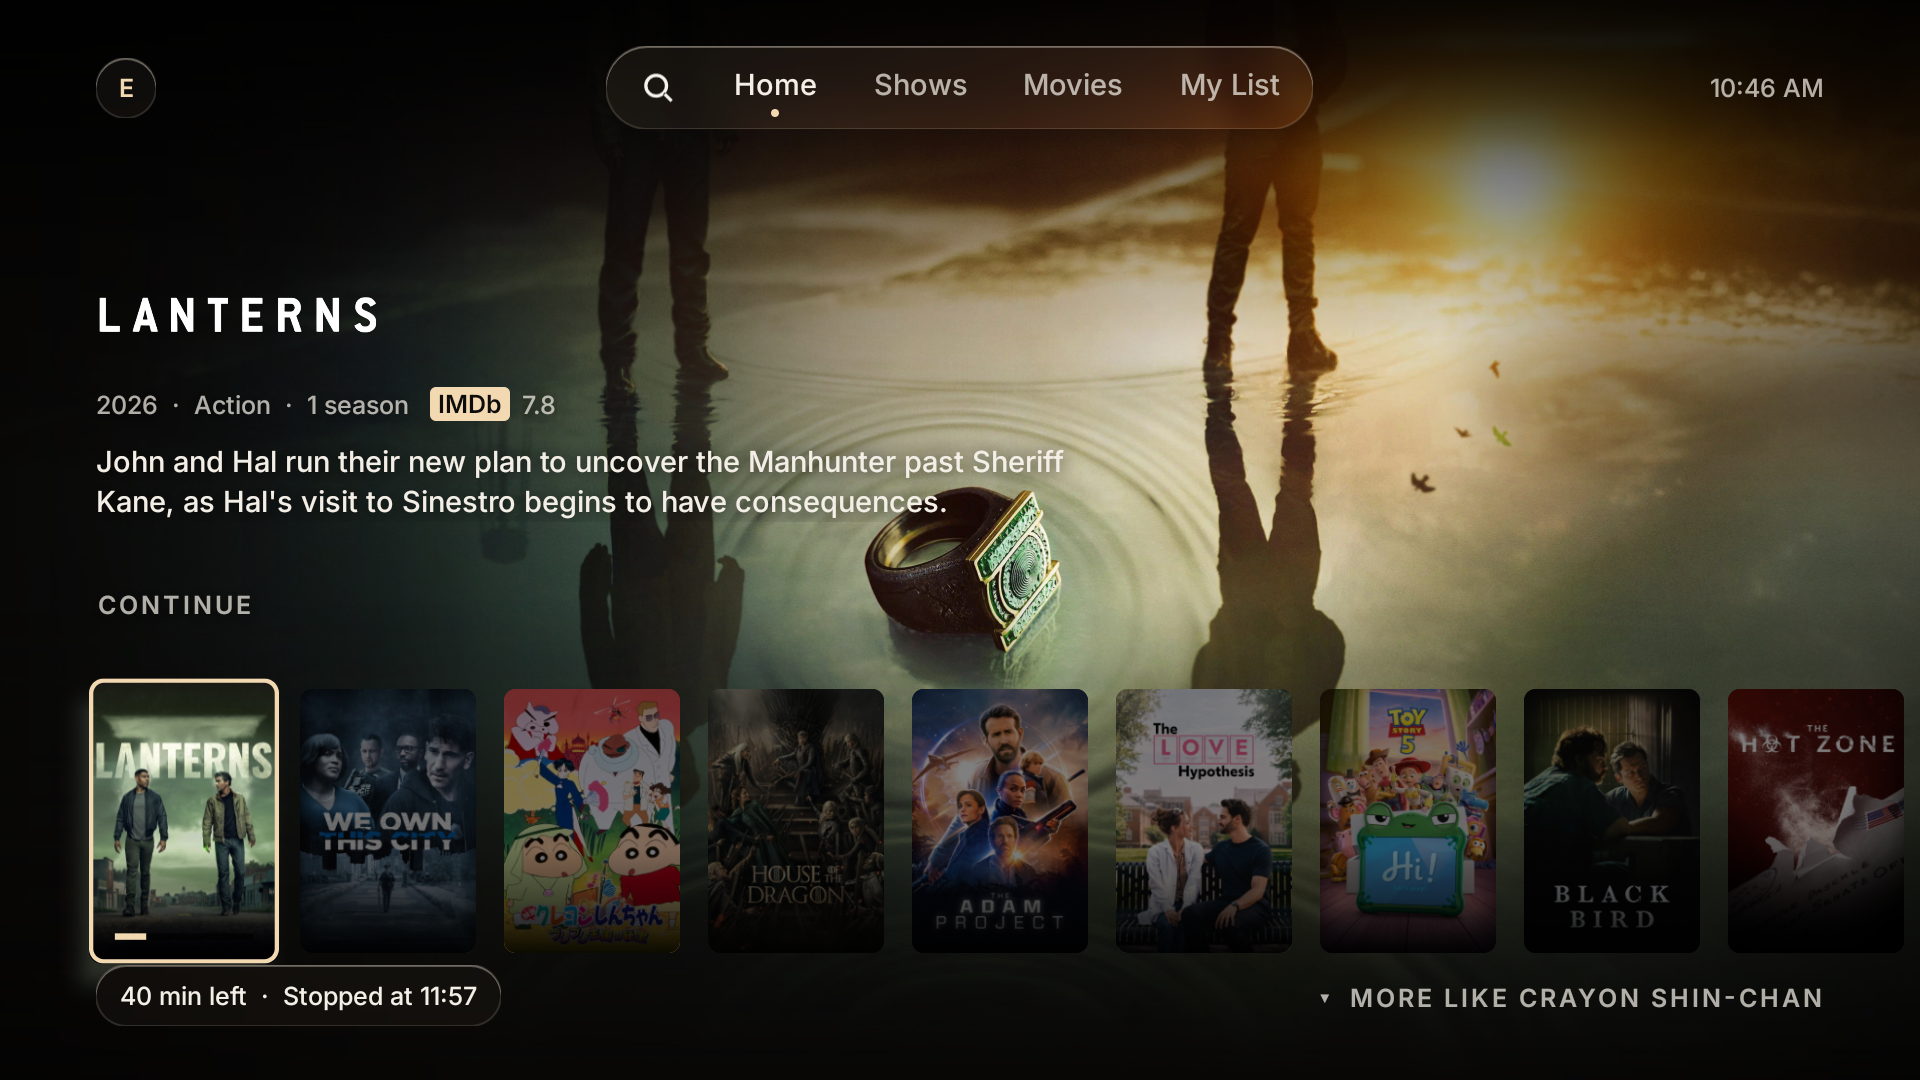
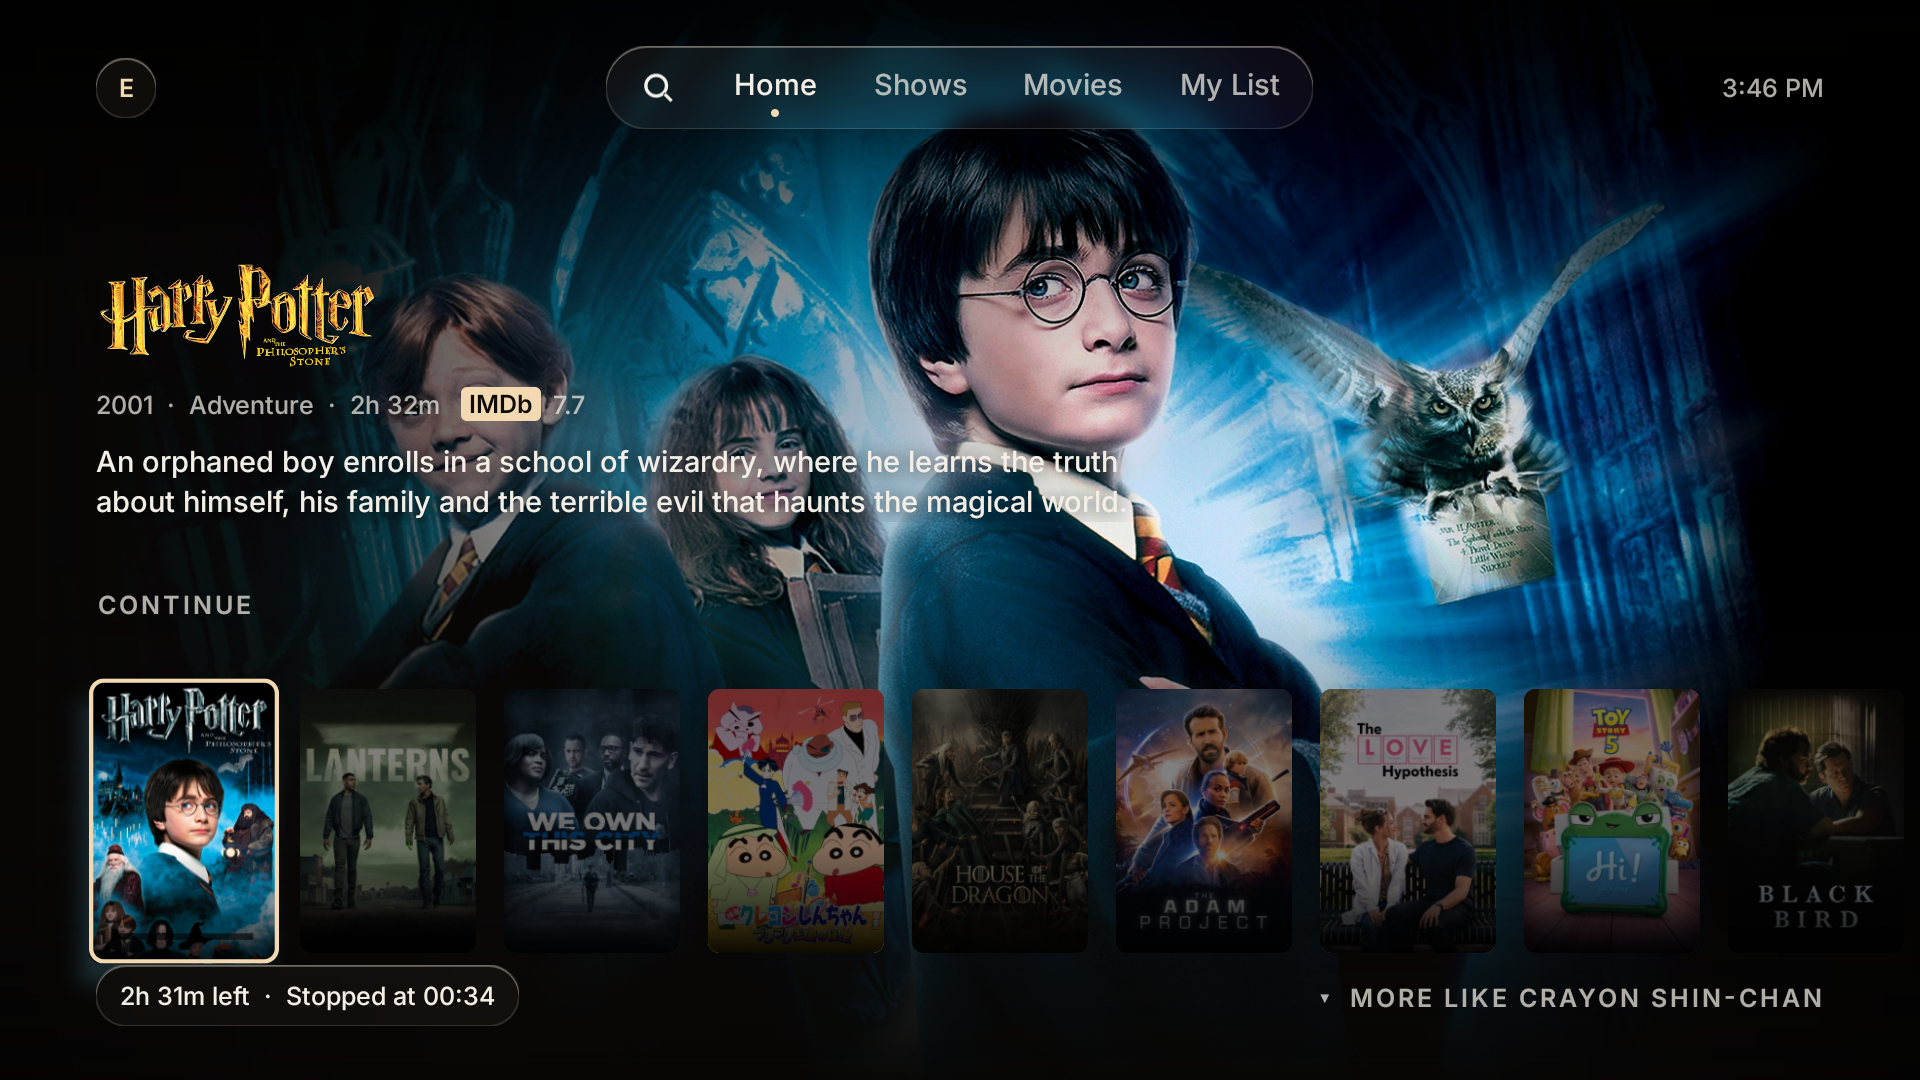
Feature cinematic home capture in README

diff --git a/README.md b/README.md
@@ -12,7 +12,7 @@
 </p>
 
 <p align="center">
-  <img src="docs/home.png" alt="Alder home screen with Continue Watching" width="100%">
+  <img src="docs/home.png" alt="Alder home screen featuring Harry Potter and Continue Watching" width="100%">
 </p>
 
 Alder is an Android TV app for your Stremio account. Your account, add-ons, library and watch progress stay exactly where they are, and everything you watch syncs back to Stremio on your phone and computer. What changes is the app on the TV: built for a remote, simple enough for anyone in the family, and quiet enough that the film is the main thing on screen.
